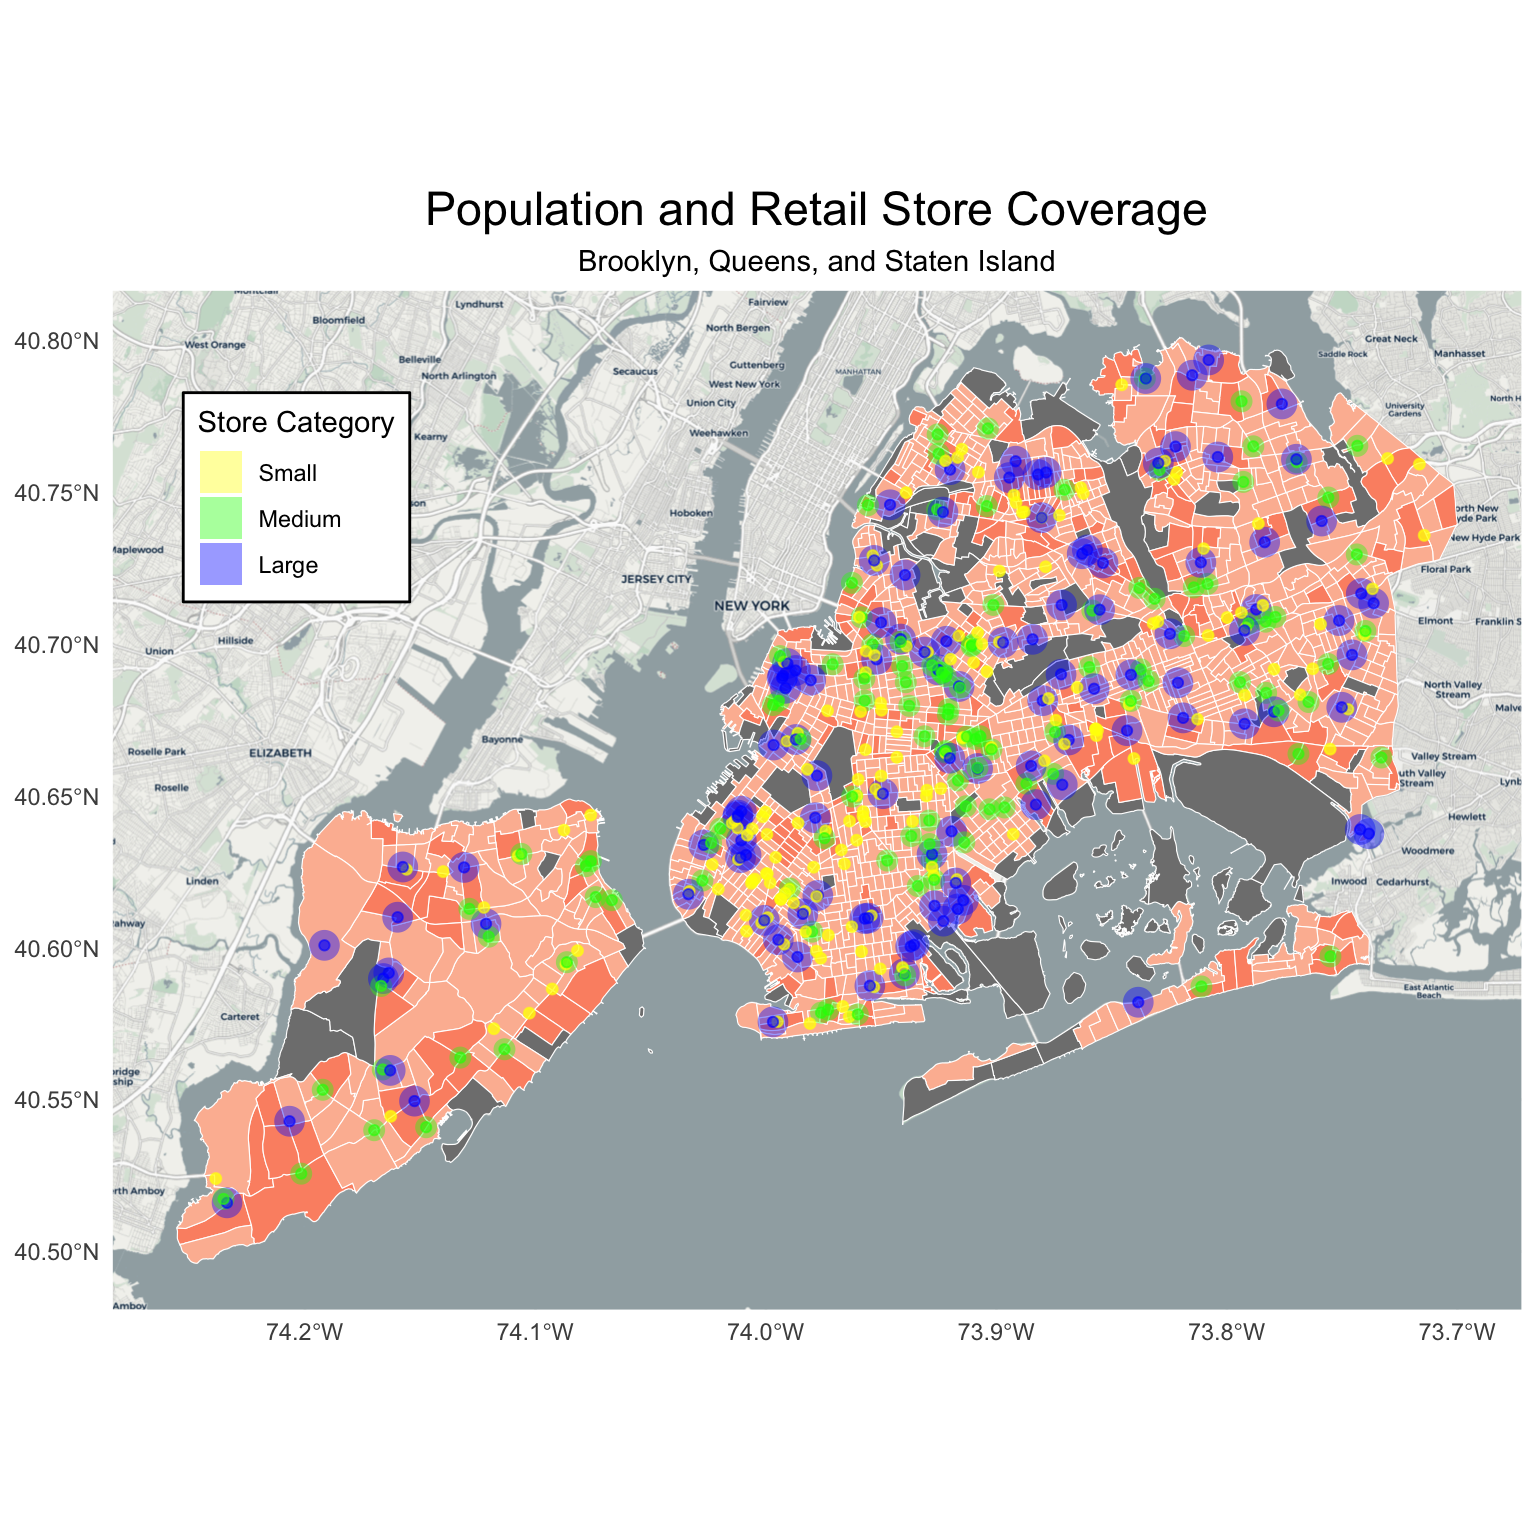
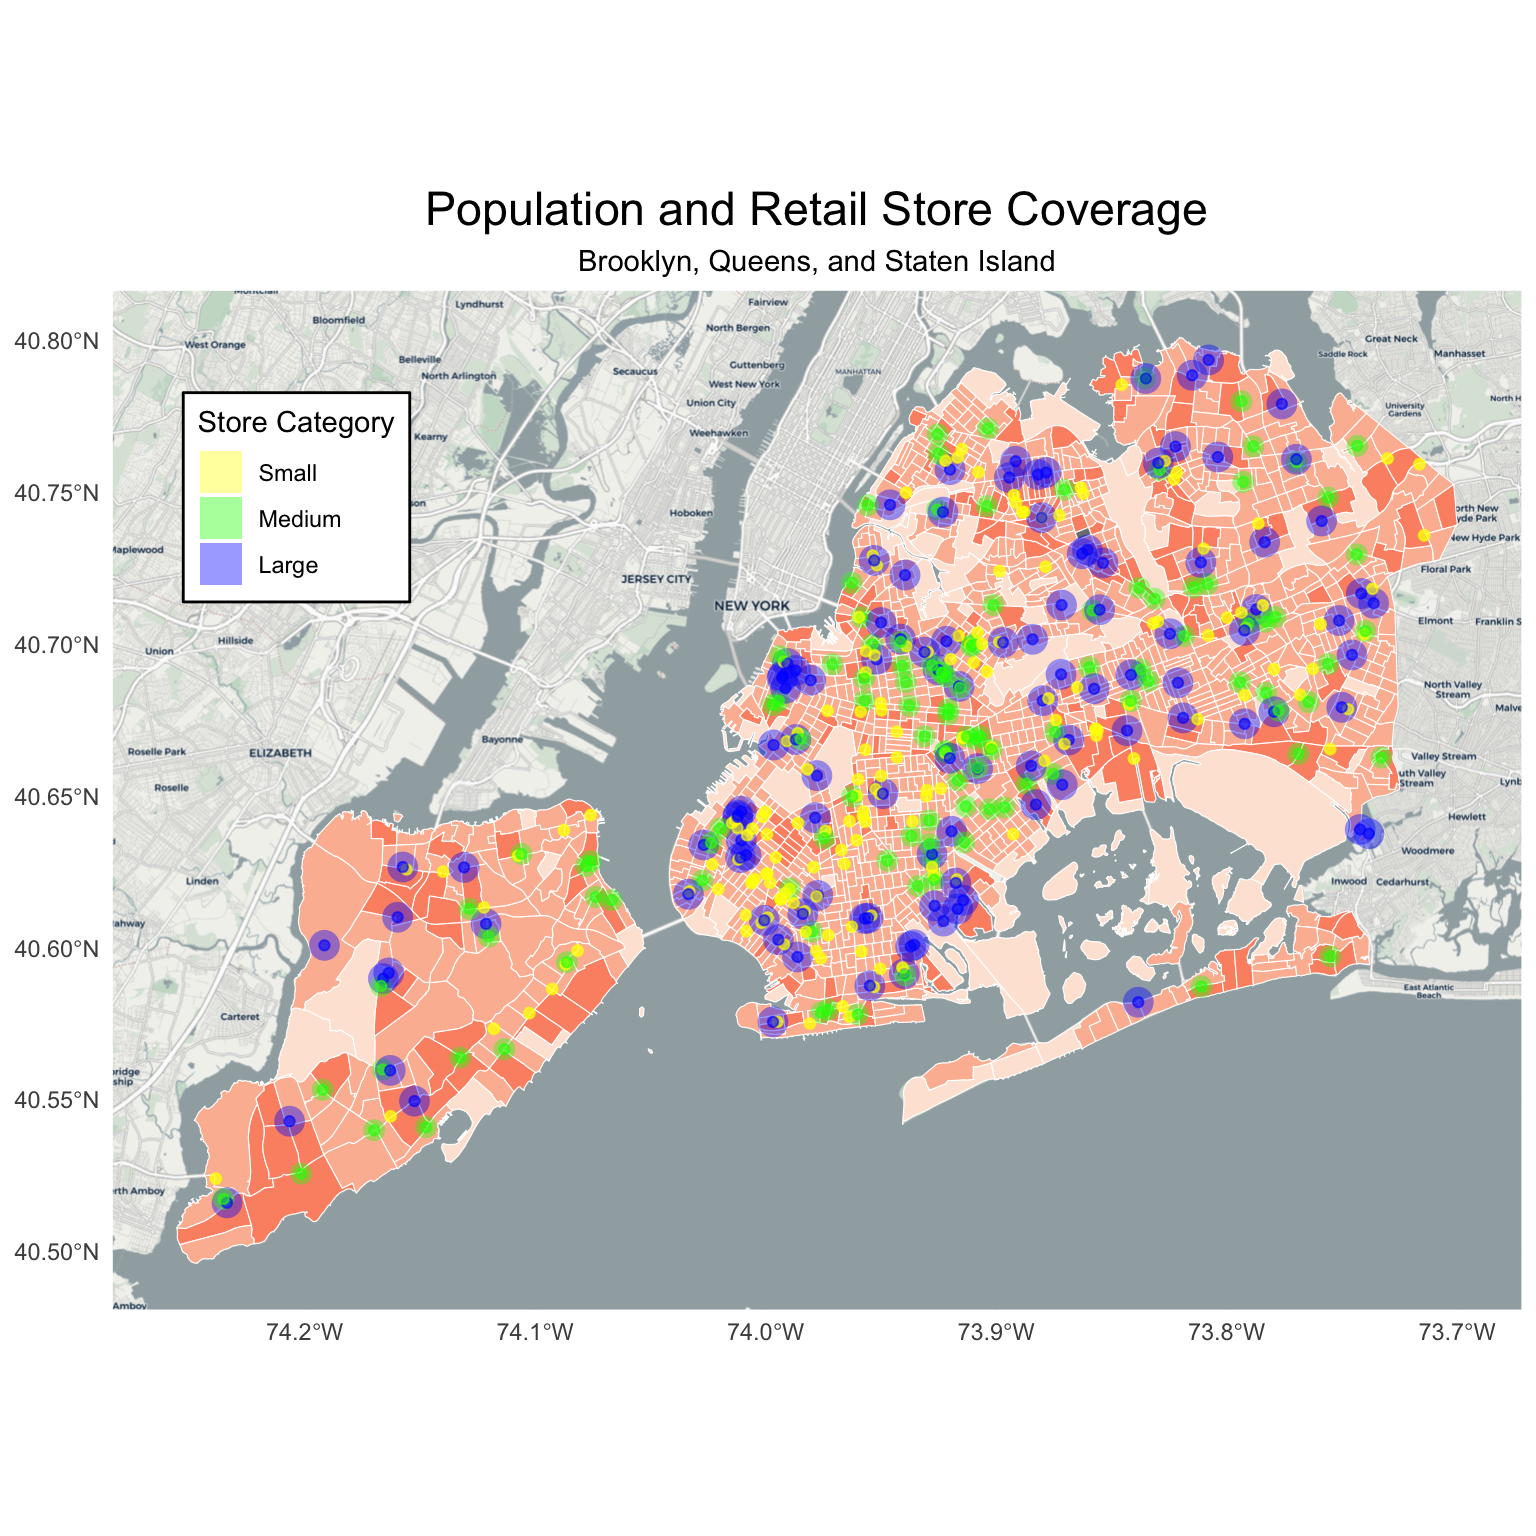
.

diff --git a/report.html b/report.html
@@ -353,8 +353,8 @@ affordable and nutritious food within NYC.</p>
 <h2>Initial Questions</h2>
 <p>Our initial questions are:<br />
 - Are there any food deserts in NYC?<br />
-- How does food access affect nutrition and health outcomes?<br />
-- What socioeconomic factors impact food access?</p>
+- What socioeconomic factors impact food access? How does food access
+affect nutrition and health outcomes?</p>
 <p>After conducting exploratory analysis and gaining a better
 understanding of the datasets, we refined our questions as
 follows:<br />
@@ -494,60 +494,7 @@ We retained only the variables essential for our analysis:
     )
   ) |&gt;
   mutate(geometry = st_buffer(geometry, dist = coverage_radius))</code></pre>
-<p>&lt;&lt;&lt;&lt;&lt;&lt;&lt; HEAD</p>
-</div>
-<div id="nyc-2020-census-tract-dataset-1" class="section level3">
-<h3>NYC 2020 Census Tract Dataset</h3>
-<p>Exported Shapefile from <a
-href="https://data.cityofnewyork.us/City-Government/2020-Census-Tracts/63ge-mke6/about_data">NYC
-Open Data</a>. This dataset includes the 2020 Census Tracts from the US
-Census for New York City. The boundary files are derived from the US
-Census Bureau’s TIGER data products and have been geographically
-modified to align with the New York City base map. The Shapefile was
-imported using <code>st_read()</code> from the <code>sf</code> package.
-Population data, aggregated at the census tract level, was joined to the
-shapefile using the common <code>geoid</code> identifier. Census tracts
-were classified into population bins based on total population for
-improved visualization.</p>
-</div>
-<div id="nyc-2020-decennial-census-data-1" class="section level3">
-<h3>NYC 2020 Decennial Census Data</h3>
-<p>Downloaded the Excel file from <a
-href="https://www.nyc.gov/site/planning/planning-level/nyc-population/2020-census.page">2020
-Census - DCP</a> provided by the NYC Department of City Planning. This
-dataset includes basic demographic and housing characteristics, such as
-total population, race/ethnicity, age, housing tenure, and household
-composition for NYC’s census blocks.The dataset was imported using
-<code>read_excel()</code> and the first six rows, which contained
-summary population information for the five counties and NYC as a whole,
-were removed. A new variable, <code>geoid</code>, was created by
-combining borough codes and tract numbers to ensure compatibility with
-the NYC census tract dataset. Total population was aggregated across
-unique <code>geoid</code> values to calculate the total population for
-each census tract. The cleaned population dataset was then merged with
-the NYC census tract dataset using the <code>geoid</code> variable.</p>
-</div>
-<div id="retail-store-dataset-1" class="section level3">
-<h3>Retail Store Dataset</h3>
-<p>Exported CSV file from <a
-href="https://data.ny.gov/Economic-Development/Retail-Food-Stores/9a8c-vfzj/about_data">Open
-Data NY</a>. This dataset provides a listing of all retail food stores
-licensed by the Department of Agriculture and Markets. The dataset
-includes variables such as store location, type, and square footage. The
-dataset was imported using <code>read_csv()</code> and column names were
-cleaned using the <code>janitor::clean_names()</code> function. Only
-relevant counties (Bronx, Kings, New York, Richmond, and Queens) were
-selected for the analysis. Establishment types were filtered to include
-only type <code>B</code> (Bakery), <code>C</code> (Food Manufacturer),
-and <code>D</code> (Food Warehouse). County names were recoded for
-consistency with other datasets.Stores with square footage below 2,000
-sqft were excluded due to insufficent nutrition providance
-consideration.Stores were categorized into the following size
-groups:<br />
-- <strong>Small</strong>: Less than 5,000 sqft<br />
-- <strong>Medium</strong>: Between 5,000 and 9,000 sqft<br />
-- <strong>Large</strong>: Greater than 9,000 sqft<br />
-To visualize the coverage of retail stores by adding coverage zones
+<p>To visualize the coverage of retail stores by adding coverage zones
 based on store size. The geometry was transform the CRS to
 <code>EPSG:2263</code> for accurate distance-based calculations.Coverage
 zones were created around store locations using
@@ -556,23 +503,37 @@ following size groups:<br />
 - <strong>Small</strong>: 0.15 miles (792 ft)<br />
 - <strong>Medium</strong>: 0.25 miles (1,320 ft)<br />
 - <strong>Large</strong>: 0.35 miles (1,848 ft)</p>
-<p>======= To visualize the coverage of retail stores by adding coverage
-zones based on store size. The geometry was transform the CRS to
-<code>EPSG:2263</code> for accurate distance-based calculations.Coverage
-zones were created around store locations using
-<code>st_buffer()</code>. The coverage radii were categorized into the
-following size groups:<br />
-- <strong>Small</strong>: 0.15 miles (792 ft)<br />
-- <strong>Medium</strong>: 0.25 miles (1,320 ft)<br />
-- <strong>Large</strong>: 0.35 miles (1,848 ft)<br />
-&gt;&gt;&gt;&gt;&gt;&gt;&gt;
-7f75831cbcb8841c253a917d92ffa983a1f9ebe3</p>
 </div>
 <div id="behavioral-risk-factor-surveillance-system-2022-dataset"
 class="section level3">
 <h3>Behavioral Risk Factor Surveillance System 2022 Dataset</h3>
-<p>&lt;&lt;&lt;&lt;&lt;&lt;&lt; HEAD ### Behavioral Risk Factor
-Surveillance System 2022 Dataset</p>
+<pre class="r"><code>brfss_22 = read_csv(&quot;NYSDOH_BRFSS_Survey_Data_2022.csv&quot;)|&gt;
+  janitor::clean_names()
+
+cleaned_df = 
+  brfss_22 |&gt;
+  filter(complete.cases(imprace, educag, incomg1, strsmeal_sa, genhlth))|&gt;
+  select(imprace, educag, incomg1, strsmeal_sa, genhlth)|&gt;
+  mutate(
+    income = case_when(
+      incomg1 %in% c(&quot;Less than $15,000&quot;, &quot;$25,000 to &lt; $35,000&quot;, &quot;$35,000 to &lt; $50,000&quot;) ~&quot;&lt;50,000&quot;,
+      incomg1 == &quot;$50,000 to &lt; $100,000&quot; ~ &quot;50,000 ~ 100,000&quot;,
+      incomg1 %in% c (&quot;$100,000 to &lt; $200,000&quot; , &quot;$200,000 or more&quot;) ~ &quot;&gt;100,000&quot;,
+      TRUE ~ NA_character_),
+    
+    education = case_when(
+      educag == &quot;Did not graduate High School&quot; ~ &quot;Less than high school&quot;,
+      educag == &quot;Graduated High School&quot; ~ &quot;High school or GED&quot;,
+      educag == &quot;Attended College or Technical School&quot; ~ &quot;Some post-high school&quot;,
+      educag == &quot;Graduated from College or Technical School&quot; ~ &quot;College graduate&quot;
+    ),
+    
+    food_insecure = case_when(
+      strsmeal_sa %in% c(&quot;Rarely&quot;,&quot;Sometimes&quot;,&quot;Usually&quot;, &quot;Always&quot;) ~ 1,
+      strsmeal_sa == &quot;Never&quot; ~ 0)
+   )|&gt;
+  filter(!is.na(income), !is.na(education))|&gt;
+  select(-incomg1, -educag, -strsmeal_sa)</code></pre>
 <p>Downlaoded the csv file from <a
 href="https://health.data.ny.gov/Health/Behavioral-Risk-Factor-Surveillance-Survey-2022/2nna-hj5u/about_data">BRSFF
 2022</a>. It is used for regression analysis. It provides monitors
@@ -590,24 +551,6 @@ Additionally, it creates a binary <code>food_insecure</code> variable
 based on responses to food insecurity questions. Finally, the cleaned
 dataset excludes the original incomg1, educag, and strsmeal_sa variables
 and keeps only the relevant and recoded columns.</p>
-<p>======= Downlaoded the csv file from <a
-href="https://health.data.ny.gov/Health/Behavioral-Risk-Factor-Surveillance-Survey-2022/2nna-hj5u/about_data">BRSFF
-2022</a>. It provides monitors modifiable risk behaviors and other
-factors contributing to the leading causes of morbidity and mortality in
-the population. This dataset was imported using <code>read_csv()</code>
-and cleans the variable names for easier handling using
-<code>janitor::clean_names()</code>, and then processes the dataset to
-focus on relevant variables (<code>imprace</code>, <code>educag</code>,
-<code>incomg1</code>, <code>strsmeal_sa</code>, and
-<code>genhlth</code>). It filters out rows with missing values in these
-variables and recodes the income and education variables into simplified
-categories. New categorical variables are <code>income</code>and
-<code>education</code>. Additionally, it creates a binary
-<code>food_insecure</code> variable based on responses to food
-insecurity questions. Finally, the cleaned dataset excludes the original
-incomg1, educag, and strsmeal_sa variables and keeps only the relevant
-and recoded columns. &gt;&gt;&gt;&gt;&gt;&gt;&gt;
-7f75831cbcb8841c253a917d92ffa983a1f9ebe3</p>
 </div>
 </div>
 <div id="identifying-food-desert" class="section level2">
@@ -837,9 +780,9 @@ that provide fresh and nutritious food options.</p>
   scale_fill_manual(
     values = c(
       &quot;Small&quot; = &quot;yellow&quot;, &quot;Medium&quot; = &quot;green&quot;, &quot;Large&quot; = &quot;blue&quot;,
-      &quot;0 - 1,000&quot; = &quot;#fee5d9&quot;, &quot;1,001 - 5,000&quot; = &quot;#fcbba1&quot;,
+      &quot;≤ 1,000&quot; = &quot;#fee5d9&quot;, &quot;1,001 - 5,000&quot; = &quot;#fcbba1&quot;,
       &quot;5,001 - 10,000&quot; = &quot;#fc9272&quot;, &quot;10,000 - 15,000&quot; = &quot;#fb6a4a&quot;,
-      &quot;15,001 - 20,000&quot; = &quot;#de2d26&quot;
+      &quot;&gt; 15,000&quot; = &quot;#de2d26&quot;
     ),
     breaks = c(&quot;Small&quot;, &quot;Medium&quot;, &quot;Large&quot;), 
     name = &quot;Store Category&quot;
@@ -1385,9 +1328,6 @@ predictor levels are statistically significant.</p>
 <h2>Discussion</h2>
 <div id="food-desert" class="section level3">
 <h3>Food Desert</h3>
-</div>
-<div id="food-desert-1" class="section level3">
-<h3>Food Desert</h3>
 <p>Based on the visualizations and observations, we identify significant
 disparities in the availability of retail food stores across New York
 City’s boroughs. The analysis highlights areas with limited access to
@@ -1417,12 +1357,11 @@ interventions to address food deserts, focusing on areas with:<br />
 of the Bronx, eastern Queens, and southern Staten Island).<br />
 - Limited presence of medium and large retail stores, which are more
 likely to offer fresh and nutritious food options.</p>
-<p>&lt;&lt;&lt;&lt;&lt;&lt;&lt; HEAD Efforts could include incentivizing
-grocery stores to open in underserved areas, enhancing transportation
-options to food hubs, and supporting local farmers’ markets to improve
-accessibility to nutritious food in food deserts. These actions could
-help bridge the food access gap and promote equitable food security
-across New York City.</p>
+<p>Efforts could include incentivizing grocery stores to open in
+underserved areas, enhancing transportation options to food hubs, and
+supporting local farmers’ markets to improve accessibility to nutritious
+food in food deserts. These actions could help bridge the food access
+gap and promote equitable food security across New York City.</p>
 </div>
 </div>
 <div id="food-insecure" class="section level3">
@@ -1466,13 +1405,6 @@ individuals’ perspectives on food insecure. We may explore more
 socioeconomic factors and control them in the regression to better
 determine whether food insecurity independently contributes to
 differences in health outcomes.</p>
-<p>======= Efforts could include incentivizing grocery stores to open in
-under-served areas, enhancing transportation options to food hubs, and
-supporting local farmers’ markets to improve accessibility to nutritious
-food in food deserts. These actions could help bridge the food access
-gap and promote equitable food security across New York City.
-&gt;&gt;&gt;&gt;&gt;&gt;&gt;
-7f75831cbcb8841c253a917d92ffa983a1f9ebe3</p>
 </div>
 
 
